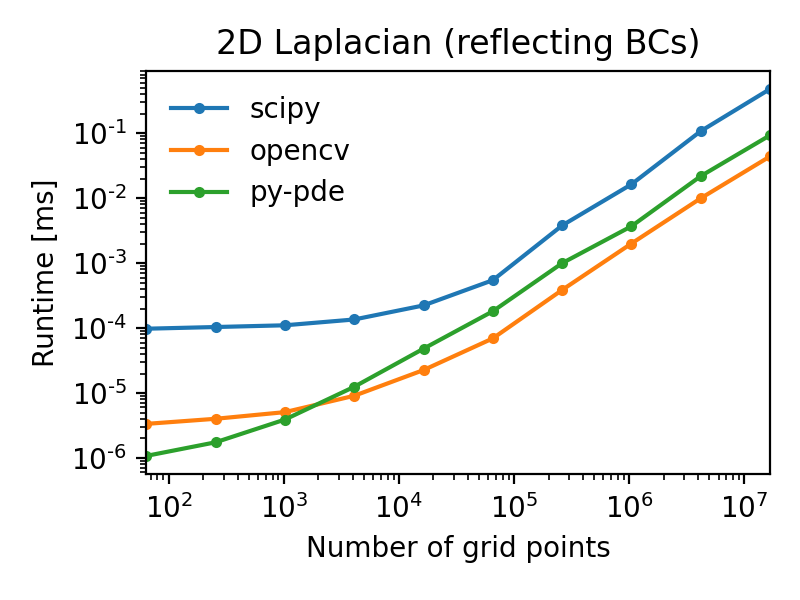
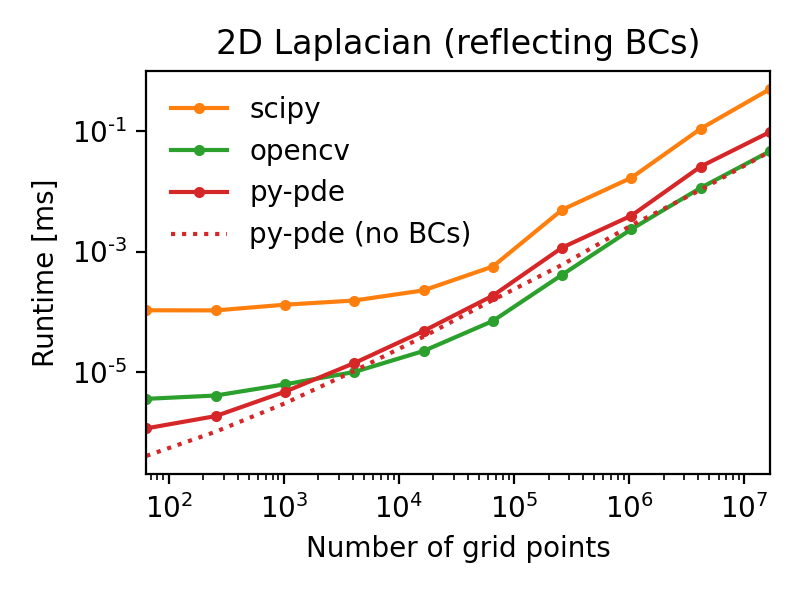
Updated documentation

diff --git a/docs/source/create_performance_plots.py b/docs/source/create_performance_plots.py
@@ -16,7 +16,7 @@ import matplotlib as mpl
 import matplotlib.pyplot as plt
 import numpy as np
 
-from pde import UnitGrid
+from pde import UnitGrid, ScalarField
 from pde.tools.misc import estimate_computation_speed
 from pde.tools.output import display_progress
 
@@ -31,19 +31,25 @@ else:
     )
 
 
-def time_function(func, arg, repeat=3):
+def time_function(func, arg, repeat=1, use_out=False):
     """estimates the computation speed of a function
 
     Args:
         func (callable): The function to test
         arg: The single argument on which the function will be estimate
         repeat (int): How often the function is tested
+        use_out (bool): Whether to supply the `out` argument to the function
 
     Returns:
         float: Estimated duration of calling the function a single time
     """
-    number = int(estimate_computation_speed(func, arg))
-    func = functools.partial(func, arg)
+    if use_out:
+        out = np.empty(tuple(s - 2 for s in arg.shape))
+        number = int(estimate_computation_speed(func, arg, out))
+        func = functools.partial(func, arg, out)
+    else:
+        number = int(estimate_computation_speed(func, arg))
+        func = functools.partial(func, arg)
     return min(timeit.repeat(func, number=number, repeat=repeat)) / number
 
 
@@ -63,14 +69,18 @@ def get_performance_data(periodic=False):
     for size in display_progress(sizes):
         data = {}
         grid = UnitGrid([size] * 2, periodic=periodic)
-        test_data = np.random.randn(*grid.shape)
+        field = ScalarField.random_normal(grid)
+        field.set_ghost_cells(bc="natural")
 
         for backend in ["numba", "scipy"]:
             op = grid.make_operator("laplace", bc="natural", backend=backend)
-            data[backend] = time_function(op, test_data)
+            data[backend] = time_function(op, field.data)
+
+        op = grid.make_operator_no_bc("laplace", backend="numba")
+        data["numba_no_bc"] = time_function(op, field._data_full, use_out=True)
 
         if opencv_laplace:
-            data["opencv"] = time_function(opencv_laplace, test_data)
+            data["opencv"] = time_function(opencv_laplace, field.data)
 
         statistics[int(size)] = data
 
@@ -87,15 +97,19 @@ def plot_performance(performance_data, title=None):
     """
     plt.figure(figsize=[4, 3])
 
-    METHOD_LABELS = {"numba": "py-pde"}
+    PLOT_DATA = [
+        {"key": "scipy", "label": "scipy", "fmt": "C1.-"},
+        {"key": "opencv", "label": "opencv", "fmt": "C2.-"},
+        {"key": "numba", "label": "py-pde", "fmt": "C3.-"},
+        {"key": "numba_no_bc", "label": "py-pde (no BCs)", "fmt": "C3:"},
+    ]
 
     sizes = np.array(sorted(performance_data.keys()))
     grid_sizes = sizes ** 2
-    methods = sorted(performance_data[sizes[0]].keys(), reverse=True)
 
-    for method in methods:
-        data = np.array([performance_data[size][method] for size in sizes])
-        plt.loglog(grid_sizes, data, ".-", label=METHOD_LABELS.get(method, method))
+    for plot in PLOT_DATA:
+        data = np.array([performance_data[size][plot["key"]] for size in sizes])
+        plt.loglog(grid_sizes, data, plot["fmt"], label=plot["label"])
 
     plt.xlim(grid_sizes[0], grid_sizes[-1])
     plt.xlabel("Number of grid points")

diff --git a/pde/grids/base.py b/pde/grids/base.py
@@ -672,7 +672,9 @@ class GridBase(metaclass=ABCMeta):
                 Specifies extra arguments influencing how the operator is created.
 
         Returns:
-            callable: the function that applies the operator
+            callable: the function that applies the operator. This function has the
+            signature (arr: np.ndarray, out: np.ndarray), so they `out` array need to be
+            supplied explicitly.
         """
         return self._get_operator_info(operator).factory(self, **kwargs)
 

diff --git a/docs/source/manual/performance.rst b/docs/source/manual/performance.rst
@@ -10,11 +10,11 @@ However, since the core operators are just-in-time compiled using :mod:`numba`,
 many operations of the package proceed at performances close to most compiled
 languages.
 For instance, a simple Laplace operator applied to fields defined on a Cartesian
-grid has performance that is similar or even better than the operators supplied 
-by the popular `OpenCV <https://opencv.org>`_ package.
+grid has performance that is similar to the operators supplied by the popular
+`OpenCV <https://opencv.org>`_ package.
 The following figures illustrate this by showing the duration of evaluating the
-Laplacian on grids of increasing number of support points (lower is better) for
-two different boundary conditions:
+Laplacian on grids of increasing number of support points for
+two different boundary conditions (lower duration is better):
 
 
 .. image:: /_images/performance_periodic.*
@@ -34,7 +34,7 @@ This can be done using the function
 `pyinstrument <https://github.com/joerick/pyinstrument>`_.
 
 
-Improving performance  
+Improving performance
 """""""""""""""""""""
 
 Factors influencing the performance of the package include the compiler used for
